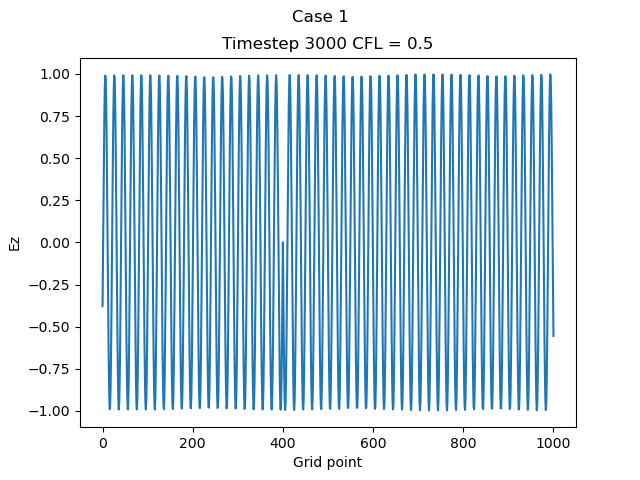
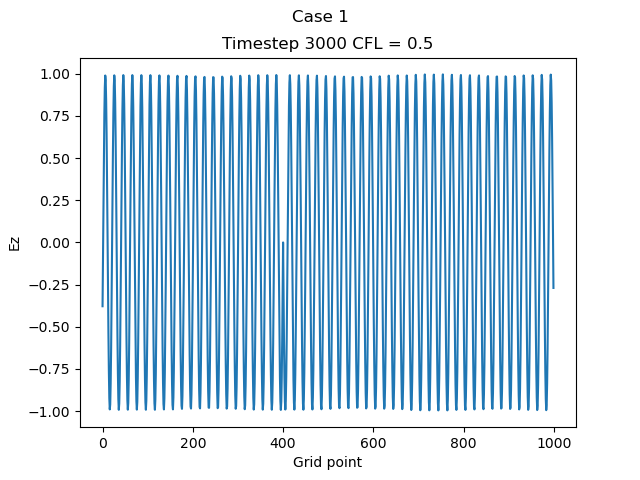
bugfix

diff --git a/main.py b/main.py
@@ -4,11 +4,11 @@ import matplotlib.pyplot as plt
 j_grid = 1000       # number of grid points
 n_grid = 3001       # number of time steps n
 
-C = 1/4             # CFL condition = c*Δt/Δy
+C = 3/2            # CFL condition = c*Δt/Δy
 
 source_1 = 400      # source location of EM wave Case 1
 source_2 = 10       # source location of EM wave Case 2
-source = source_2
+source = source_1
 
 Ez = np.zeros(j_grid)       # Electric field (E_z)
 Hx = np.zeros(j_grid - 1)   # Magnetic field (H_x)
@@ -32,7 +32,7 @@ for n in range(n_grid):                     # loop over time
     source_function_1 = np.sin(2 * np.pi * n * C / 20)        # source funtion Case 1 
     source_function_2 = np.exp(- ((n / 30) - 5) ** 2)         # source funtion Case 2
 
-    Ez[source] = source_function_2
+    Ez[source] = source_function_1
 
     if n == 500 or n == 1000 or n== 3000:       # PLOT at timesteps 500, 1000 and 3000
         plt.figure()
